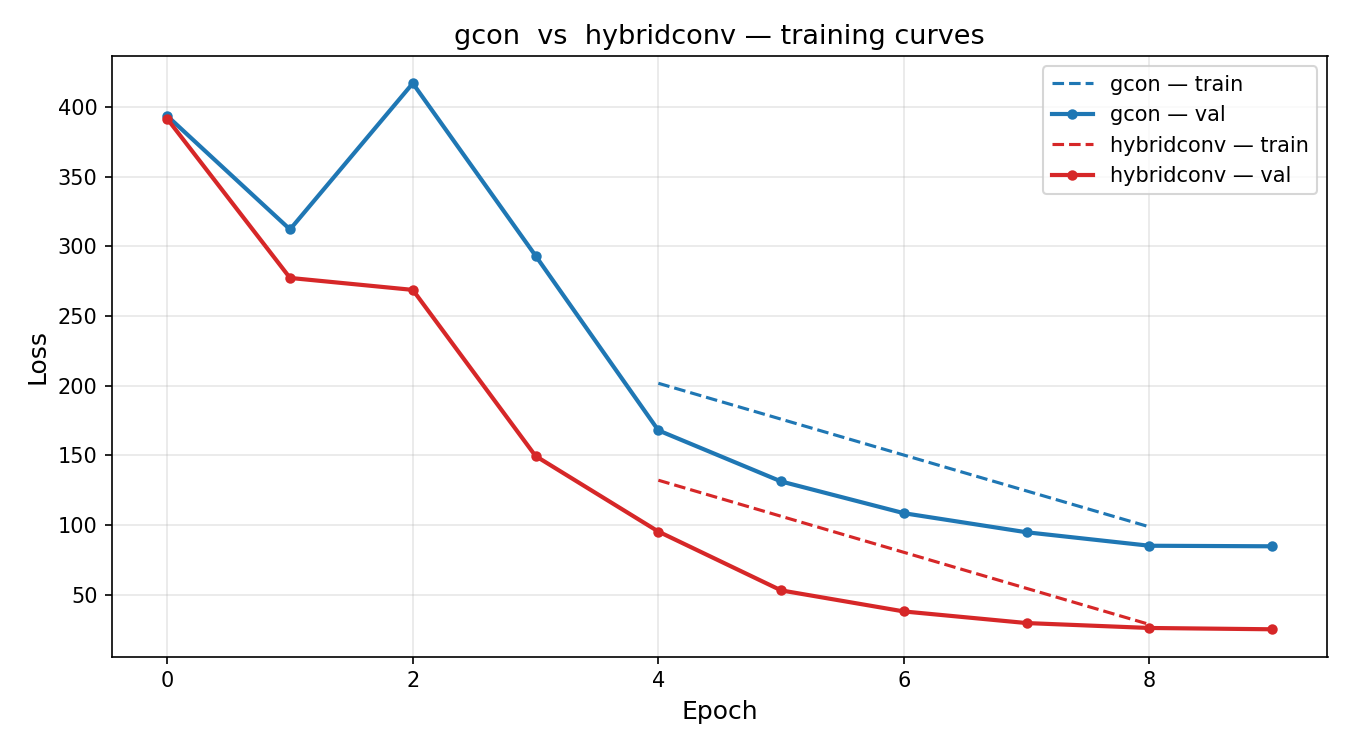
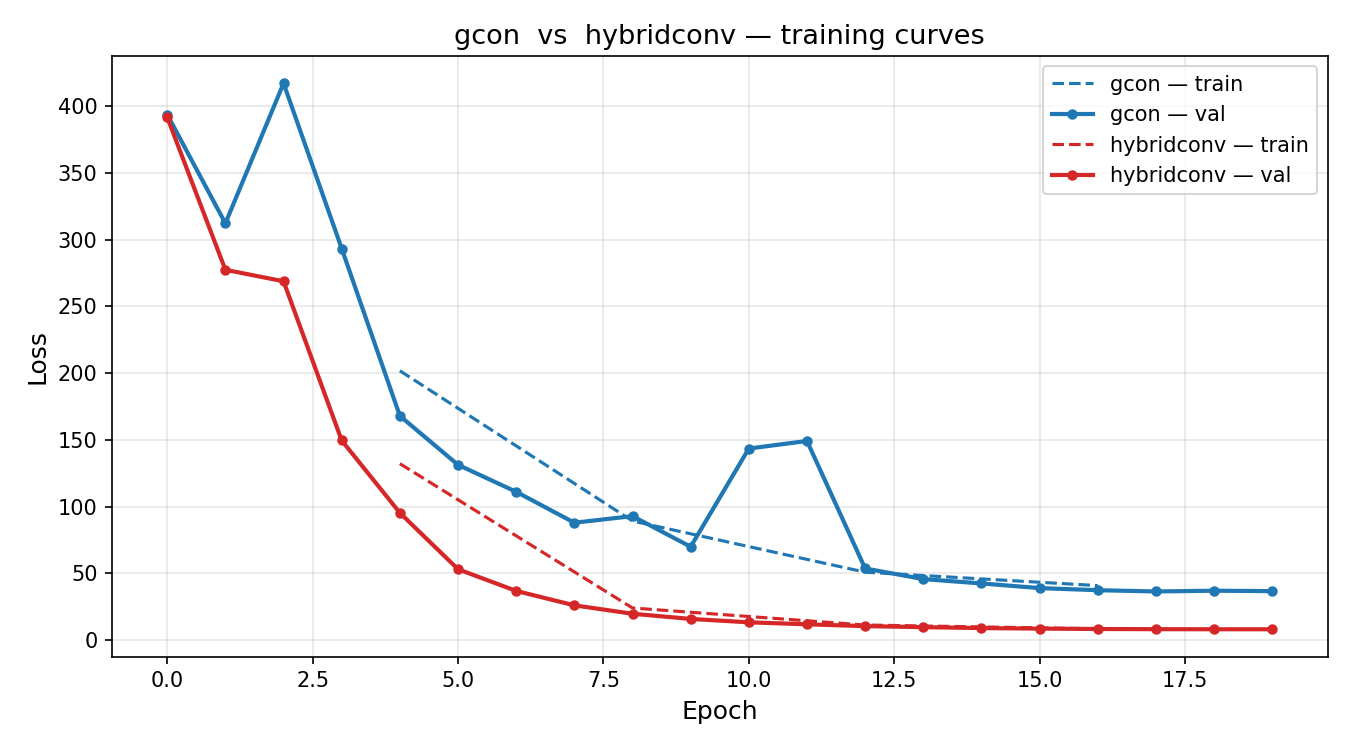
Made some changes

diff --git a/graphgym/config/loss_config.py b/graphgym/config/loss_config.py
@@ -14,7 +14,7 @@ def loss_param_cfg(cfg):
 
     cfg.mis_loss = CN()
     cfg.mis_loss.alpha = 1.0
-    cfg.mis_loss.beta = 1.01
+    cfg.mis_loss.beta = 10.0
     # cfg.mis_loss.k = 2
 
     cfg.mis_loss_annealed = CN()

diff --git a/graphgym/loss/copt_loss.py b/graphgym/loss/copt_loss.py
@@ -229,7 +229,7 @@ def mis_loss_annealed_pyg(batch, tau=1.0, eps=1e-8, **kwargs):
 
 
 @register_loss("mis_loss")
-def mis_loss_pyg(batch, alpha=1.0, beta=1.01):
+def mis_loss_pyg(batch, alpha=1.0, beta=10.0):
     data_list = batch.to_data_list()
 
     loss = 0.0